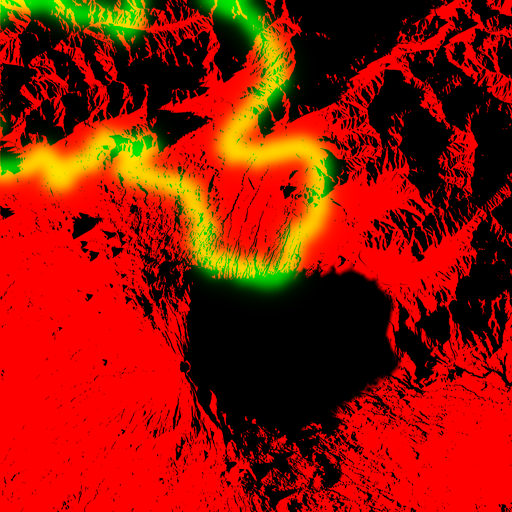
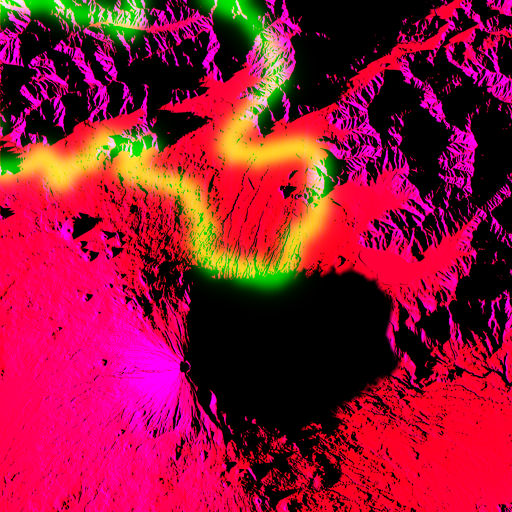
Publish golden-hour light across Mount Fuji and the lakeshore

diff --git a/lakeside.js b/lakeside.js
@@ -42,6 +42,9 @@ function createLakeLandscape(gl, mesh, light, requestRender,restoreMaterials) {
     uniform bool traceWater;
     const float pi=3.14159265;
     const vec2 chartSize=vec2(3072.,1536.);
+    const vec3 sunlightRGB=vec3(${light.sunRGB.map(v=>v.toFixed(3)).join(',')});
+    const float maxIrradiance=${light.maxIrradiance.toFixed(2)};
+    const float sunGain=${light.sunGain.toFixed(2)};
     vec3 groundShadow(vec3 p){
       vec2 chart=p.xz/shadowStep+512.;
       vec2 edge=min(chart,1024.-chart);
@@ -138,7 +141,7 @@ function createLakeLandscape(gl, mesh, light, requestRender,restoreMaterials) {
       float fresnel=.020+.98*pow(1.-clamp(dot(-direction,n),0.,1.),5.);
       float glitter=pow(max(dot(reflected,sun),0.),1320.);
       return mix(vec3(.17,.223,.233)*mix(.76,1.,bank.y),image*vec3(.88,.92,.94),.33+.48*fresnel)+
-        sunlit*glitter*vec3(.59,.36,.18)*(.24+.52*wind);
+        sunlit*glitter*(.25*pow(sunlightRGB,vec3(1./2.2)))*(.24+.52*wind);
     }`;
   const fragmentSource=(derivatives?'#extension GL_OES_standard_derivatives : enable\n#define FACE_NORMAL\n':'')+`precision highp float;
     varying vec3 world,color;
@@ -285,7 +288,8 @@ function createLakeLandscape(gl, mesh, light, requestRender,restoreMaterials) {
       if(captureShore && (isSky || dist>5500.))discard;
       if(mirror>.5 && world.y<waterHeight-.02 && !isSky)discard;
       vec4 leaves=vec4(1.);
-      if(kind>7.5){leaves=texture2D(canopyMap,canopyUV);if(leaves.a<.36)discard;}
+      vec2 crownUV=canopyUV*vec2(.5,1.);
+      if(kind>7.5){leaves=texture2D(canopyMap,crownUV);if(leaves.a<.36)discard;}
       vec4 mist=mistAlong(direction,dist);
       if(isSky){
         gl_FragColor=vec4(mist.rgb+(1.-mist.a)*sky(direction),1.);
@@ -294,7 +298,8 @@ function createLakeLandscape(gl, mesh, light, requestRender,restoreMaterials) {
       float edge=min(min(landUV.x,landUV.y),min(1.-landUV.x,1.-landUV.y));
       float coverage=smoothstep(.002,.035,edge);
       vec2 regional=texture2D(shadowAtlas,clamp(world.xz/(shadowStep*8.)+720.,.5,1439.5)/chartSize).rg;
-      float sunlit=mix(regional.x,texture2D(sunMask,landUV).r,coverage);
+      vec3 terrainSun=texture2D(sunMask,landUV).rgb;
+      float sunlit=mix(regional.x,terrainSun.r,coverage);
       if(kind>2.5 && kind<3.5){
         if(maskWater>.5)gl_FragColor=mist;
         else gl_FragColor=vec4(mist.rgb+(1.-mist.a)*lakeWater(world,direction,dist,sunlit),1.);
@@ -313,11 +318,18 @@ function createLakeLandscape(gl, mesh, light, requestRender,restoreMaterials) {
         float border=min(min(inset.x,inset.y),min(1.-inset.x,1.-inset.y));
         vec2 crop=vec2(.5+.5*clamp(inset.x,.001,.999),clamp(inset.y,.001,.999));
         base=mix(base,texture2D(terrainMap,crop).rgb,smoothstep(.006,.052,border));
+        base*=${light.landRange.toFixed(2)};
+        // The photograph already includes terrain self-shadow. Remove only
+        // the direct component where a nearer object, ridge or cloud blocks it.
+        vec3 ambient=vec3(.44,.51,.66);
+        vec3 direct=terrainSun.b*maxIrradiance*sunlightRGB;
+        float transmission=bank.x*bank.z*cloudLight;
+        base*=pow((ambient+transmission*direct)/(ambient+direct),vec3(1./2.2));
         // Register the native DEM/orthophoto inset with the regional material.
         vec2 summit=(landUV-fujiUV.xy)*fujiUV.z;
         float rim=min(min(summit.x,summit.y),min(1.-summit.x,1.-summit.y));
         float alpine=smoothstep(1230.,1620.,world.y)*smoothstep(.004,.085,rim);
-        base=mix(base,texture2D(fujiMap,clamp(summit,0.,1.)).rgb,alpine);
+        base=mix(base,texture2D(fujiMap,clamp(summit,0.,1.)).rgb*${Number(light.summitRange || 1).toFixed(2)},alpine);
         // A dark understory connects the visible crowns on the shore and headlands.
         // Sample in metres along the hillside so steep faces do not stretch the grain.
         float rise=world.y-waterHeight;
@@ -328,15 +340,16 @@ function createLakeLandscape(gl, mesh, light, requestRender,restoreMaterials) {
           float crowns=.72*noise(p*.11)+.28*noise(p*.33);
           vec3 foliage=mix(vec3(.117,.137,.114),vec3(.254,.199,.138),smoothstep(.34,.77,stand));
           float surround=clamp(dot(base,vec3(.28,.56,.16)),.05,.65);
-          foliage*=(.58+.63*crowns+.42*surround)*mix(vec3(.77,.83,.87),vec3(1.12,1.01,.87),sunlit);
+          foliage*=(.58+.63*crowns+.42*surround)*pow(ambient+.55*transmission*direct,vec3(1./2.2));
           base=mix(base,foliage,woods*mix(.83,.97,smoothstep(12.,38.,rise)));
         }
-        result=mix(fallback*mix(.66,1.,regional.x),base,coverage)*mix(.72,1.,cloudLight)*
-          mix(.69,1.,bank.x*bank.z)*mix(.69,1.,bank.y)*mix(.86,1.,regional.y);
+        result=mix(fallback*mix(.66,1.,regional.x),base,coverage)*mix(.69,1.,bank.y)*mix(.86,1.,regional.y)*
+          mix(1.,mix(.72,1.,cloudLight),alpine);
       }else if(kind>7.5){
         float crownHeight=1.-fract(canopyUV.y*2.);
         float shelter=mix(bank.y,1.,smoothstep(.12,.82,crownHeight));
-        result=leaves.rgb*color*mix(vec3(.65,.70,.81),vec3(1.07,.98,.90),sunlit*objectShadow(world))*mix(.72,1.,shelter);
+        vec3 litLeaves=texture2D(canopyMap,crownUV+vec2(.5,0.)).rgb;
+        result=mix(leaves.rgb,litLeaves,sunlit*objectShadow(world))*color*mix(.72,1.,shelter);
       }else{
         vec3 n=vec3(0.,1.,0.);
         #ifdef FACE_NORMAL
@@ -344,7 +357,7 @@ function createLakeLandscape(gl, mesh, light, requestRender,restoreMaterials) {
           n=face/max(.000001,length(face));
           if(dot(n,-direction)<0.)n=-n;
         #endif
-        float diffuse=max(dot(n,sun),0.)*sunlit*objectShadow(world);
+        float diffuse=clamp(sunGain*dot(n,sun),0.,maxIrradiance)*sunlit*objectShadow(world);
         vec3 base=color;
         if(kind>5.5){
           float along=dot(vec2(n.z,-n.x),world.xz);
@@ -357,7 +370,7 @@ function createLakeLandscape(gl, mesh, light, requestRender,restoreMaterials) {
           if(room>.94)glass=vec3(.85,.66,.41);
           base=mix(base,glass,pane*(.81-smoothstep(350.,1950.,dist)*.54));
         }
-        result=base*sqrt(vec3(.37,.45,.60)*mix(.77,1.,bank.y)+diffuse*vec3(1.34,.88,.48));
+        result=base*pow(vec3(.37,.45,.60)*mix(.77,1.,bank.y)+diffuse*sunlightRGB,vec3(1./2.2));
       }
       // The aerosol layer thins with height. Integrate density along the ray to
       // the surface so a summit above the layer retains its snow and rock relief.

diff --git a/kawaguchi-light.js b/kawaguchi-light.js
@@ -1,1 +1,1 @@
-const kawaguchiLight={"sun":[0.45664109863368607,0.12412104356139257,0.8809499835880873],"roomSun":[0.6642136358303787,0.12412104356139257,0.7371663397919224],"origin":[0.4690597529601064,0.1937078538297783],"terrain":"kawaguchi-autumn.jpg","visibility":"kawaguchi-sun-mask.png","sky":"kawaguchi-evening-sky.jpg","canopy":"kawaguchi-canopies.png","fuji":"fuji-ravines.jpg","fujiUV":[0.25,0.5625,4.0],"shadows":"kawaguchi-shadows.png","shadowChart":{"step":7.792105432610233,"depthOrigin":[-1519.4605593589954,-487.00658953813956],"depthSize":[1333,273],"depthRange":[3818,5754]}};
+const kawaguchiLight={"sun":[0.45664109863368607,0.12412104356139257,0.8809499835880873],"sunRGB":[6.8,2.8,0.5],"sunGain":3.2,"maxIrradiance":1.8,"landRange":1.6,"roomSun":[0.6642136358303787,0.12412104356139257,0.7371663397919224],"origin":[0.4690597529601064,0.1937078538297783],"terrain":"kawaguchi-autumn.jpg?v=2","visibility":"kawaguchi-sun-mask.png?v=2","sky":"kawaguchi-evening-sky.jpg","canopy":"kawaguchi-canopies.png?v=2","fuji":"fuji-ravines.jpg?v=2","summitRange":3.2,"fujiUV":[0.25,0.5625,4.0],"shadows":"kawaguchi-shadows.png","shadowChart":{"step":7.792105432610233,"depthOrigin":[-1519.4605593589954,-487.00658953813956],"depthSize":[1333,273],"depthRange":[3818,5754]}};

diff --git a/index.html b/index.html
@@ -49,9 +49,9 @@
   <script src="studio.js?v=4"></script>
   <script src="project-desk.js?v=2"></script>
   <script src="kawaguchi-mesh.js"></script>
-  <script src="kawaguchi-light.js?v=2"></script>
+  <script src="kawaguchi-light.js?v=4"></script>
   <script src="visibility.js?v=4"></script>
-  <script src="lakeside.js?v=9"></script>
+  <script src="lakeside.js?v=11"></script>
   <script src="window-focus.js?v=7"></script>
   <script src="window-glass.js?v=4"></script>
   <script src="rangefinder.js?v=3"></script>
